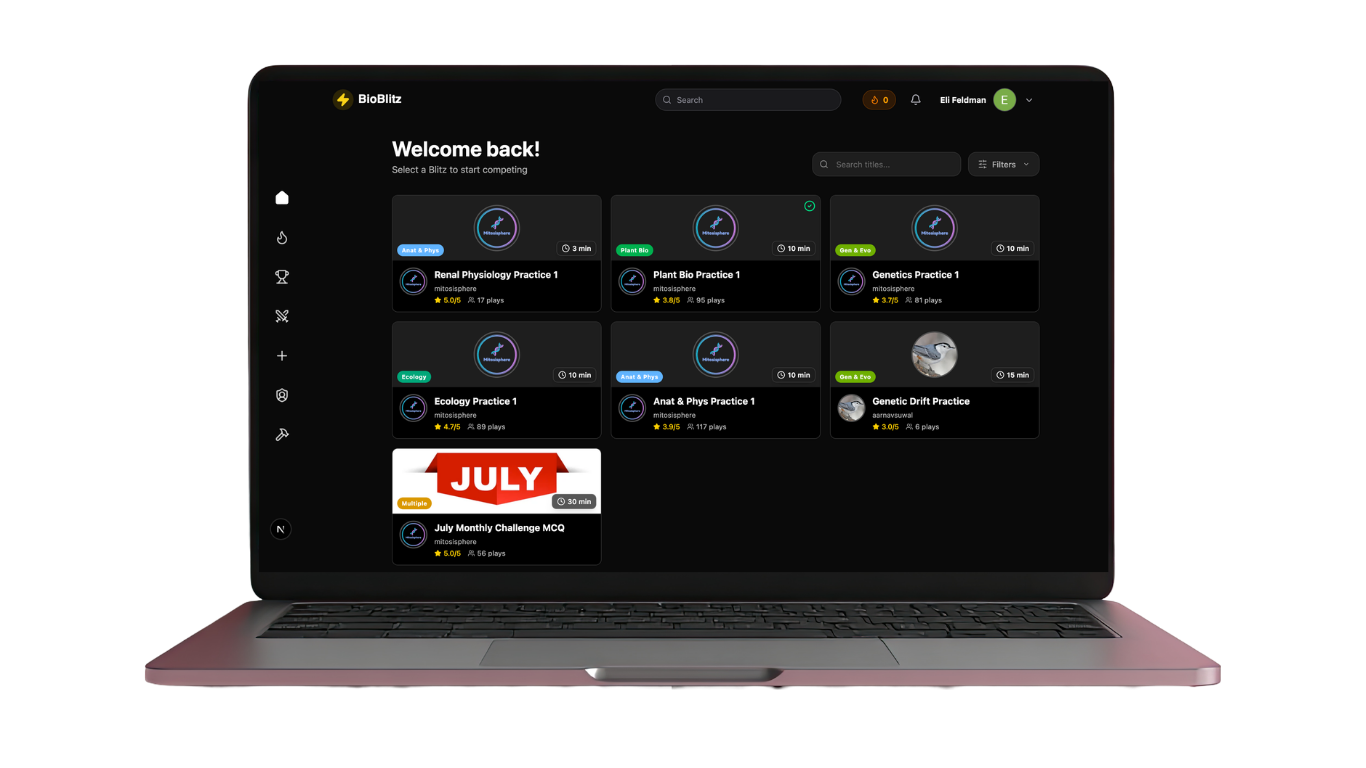
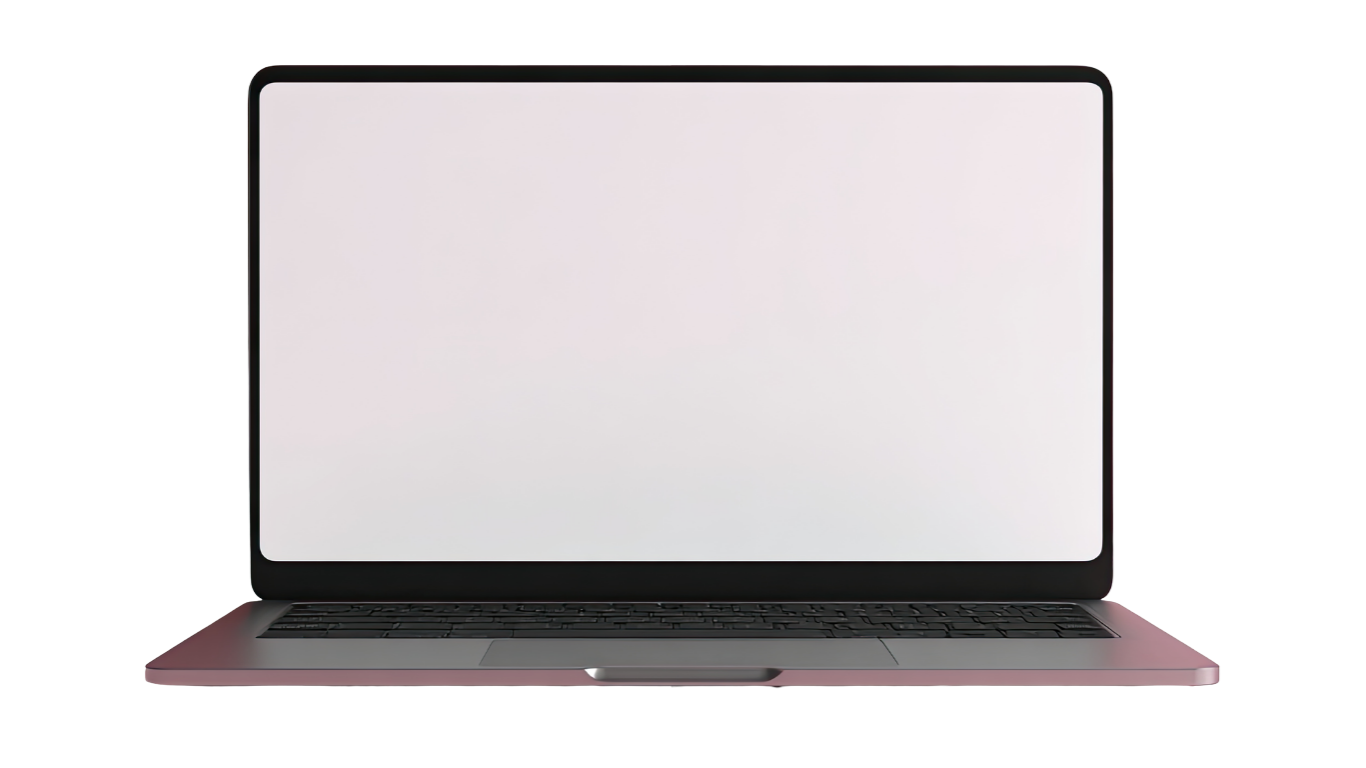
revise + add about

diff --git a/bioblitz/src/app/(main)/about/page.tsx b/bioblitz/src/app/(main)/about/page.tsx
@@ -1,33 +1,100 @@
 "use client";
+import Link from "next/link";
+import { useEffect, useRef, useState } from "react";
+
+const SCREENSHOTS: (string | null)[] = [
+  "/images/about/home.png",                             
+  "/images/about/blitz.png",                              
+  "/images/about/leaderboard.png", 
+  "/images/about/potd.png", 
+  "/images/about/create.png", 
+];
+
 export default function About() {
+  const [activeIndex, setActiveIndex] = useState<number>(0);
+  const sectionRefs = useRef<(HTMLDivElement | null)[]>([]);
+
+  useEffect(() => {
+    const handleScroll = () => {
+      let current = 0;
+      sectionRefs.current.forEach((el, i) => {
+        if (el) {
+          const rect = el.getBoundingClientRect();
+          if (rect.top <= window.innerHeight / 2) current = i;
+        }
+      });
+      setActiveIndex(current);
+    };
+
+    document.addEventListener("scroll", handleScroll);
+    return () => document.removeEventListener("scroll", handleScroll);
+  }, []);
   return (
     <div className="min-h-screen bg-neutral-900">
       <main className="max-w-7xl mx-auto pr-4 sm:pr-6 lg:pr-8 pl-0 sm:pl-12 lg:pl-33.5 pt-24 pb-12">
         <div className="flex items-start gap-10">
 
-          <div className="max-w-md">
+          <div className="max-w-md text-lg">
             <h1 className="font-semibold mb-6 text-3xl">BioBlitz</h1>
-            <h2 className="text-neutral-300 mb-3">Introduction</h2>
-            <p className="text-neutral-400 mb-6">
-              First of all, you're probably wondering what BioBlitz is. It is a platform that hosts public biology tests, called
-              "blitzes", to make biology education more accessible. Studying for the USA Biology Olympiad (USABO) or the MCAT exam takes
-              a tremendous amount of effort and practice is needed to well. Most people spend hours reading Campbell's Biology to prepare for the opens,
-              but are limited by the few open and semifinal exams that are available. Created by USABO participants, the platform provides a centralized place to
-              take practice tests, as well as create questions for others.
-            </p>
-            <h2 className="text-neutral-300 mb-3">Home</h2>
-            <p className="text-neutral-400">
-              First of all, you're probably wondering what BioBlitz is. It is a platform that hosts public biology tests, called
-              "blitzes", to make biology education more accessible. Studying for the USA Biology Olympiad (USABO) or the MCAT exam takes
-              a tremendous amount of effort and practice is needed to well. Most people spend hours reading Campbell's Biology to prepare for the opens,
-              but are limited by the few open and semifinal exams that are available. Created by USABO participants, the platform provides a centralized place to
-              take practice tests, as well as create questions for others.
-            </p>
 
+            <div ref={(el) => { sectionRefs.current[0] = el; }} className="min-h-screen flex flex-col">
+              <h2 className="text-neutral-300 mb-3">Introduction</h2>
+              <p className="text-neutral-400 mb-6">
+                First of all, you're probably wondering what BioBlitz is. It is a platform that hosts public biology tests, called
+                "blitzes", to make biology education more accessible. Studying for the USA Biology Olympiad (USABO) or the MCAT exam takes
+                a tremendous amount of effort and practice is needed to well.
+                <br /><br />
+                Most people spend hours reading Campbell's Biology to prepare for the opens,
+                but are limited by the few open and semifinal exams that are available. Created by USABO participants, the platform provides a centralized place to
+                take practice tests, as well as create questions for others.
+              </p>
+            </div>
+
+            <div ref={(el) => { sectionRefs.current[1] = el; }} className="min-h-screen flex flex-col">
+              <h2 className="text-neutral-300 mb-3">How it works</h2>
+              <p className="text-neutral-400 mb-6">
+                The home page will show a list of blitzes. Each will be created by a user on the platform.{" "}
+                <Link className="text-yellow-300 hover:underline" href="https://mitosisphere.org">Mitosisphere</Link>{" "}
+                is a team of problem writers that make many of the questions. Each contest is assigned a{" "}
+                <Link className="hover:underline text-yellow-300" href="about/rating">rating</Link> based on how difficult it is.
+                A blitz with a higher rating indicates more challenging content, dynamically determined by how users performed on the blitz.
+              </p>
+            </div>
+
+            <div ref={(el) => { sectionRefs.current[2] = el; }} className="min-h-screen flex flex-col">
+              <h2 className="text-neutral-300 mb-3">Compete</h2>
+              <p className="text-neutral-400 mb-6">
+                Everyone starts at 500 rating. Based on your performance on the blitzes, your rating will either go up or down. You can see how you stack up against your competitors on the{" "}
+                <Link className="hover:underline text-yellow-300" href="leaderboard">leaderboard</Link>.
+              </p>
+            </div>
           </div>
 
-          <div className="flex-1 mt-30 -mr-20 overflow-hidden">
-            <img src="images/about/computer.png" className="w-full" />
+          <div className="flex-1 sticky top-50 mt-30 -mr-20">
+            <div className="relative">
+              
+
+              <div className="absolute rounded-full z-20" style={{ top: "9.5%", left: "18.3%", width: "66%", height: "65%" }}>
+                {SCREENSHOTS.map((src, i) =>
+                  src ? (
+                    <img
+                      key={i}
+                      src={src}
+                      alt=""
+                      className={`absolute rounded-full inset-0 scale-150 px-20 w-full h-full object-cover object-top rounded-sm transition-opacity duration-700 ${
+                        activeIndex === i ? "opacity-100" : "opacity-0"
+                      }`}
+                    />
+                  ) : null
+                )}
+              </div>
+
+              <img
+                src="images/about/computer.png"
+                alt=""
+                className="relative z-10 w-full pointer-events-none"
+              />
+            </div>
           </div>
 
         </div>
